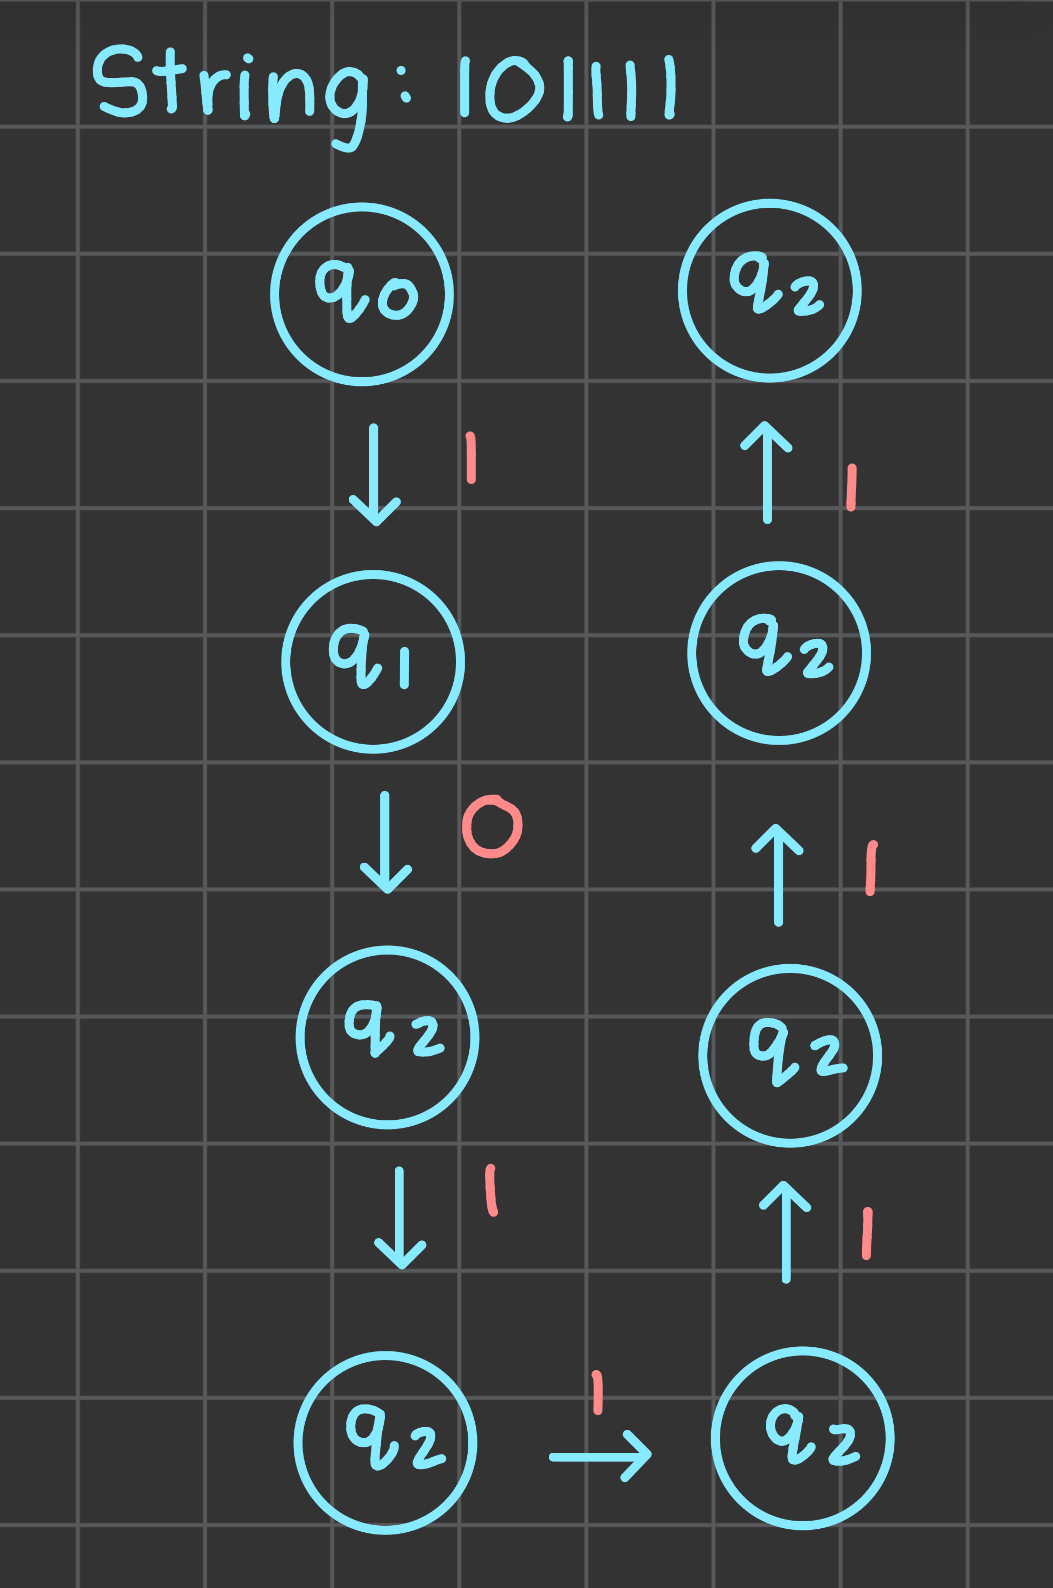
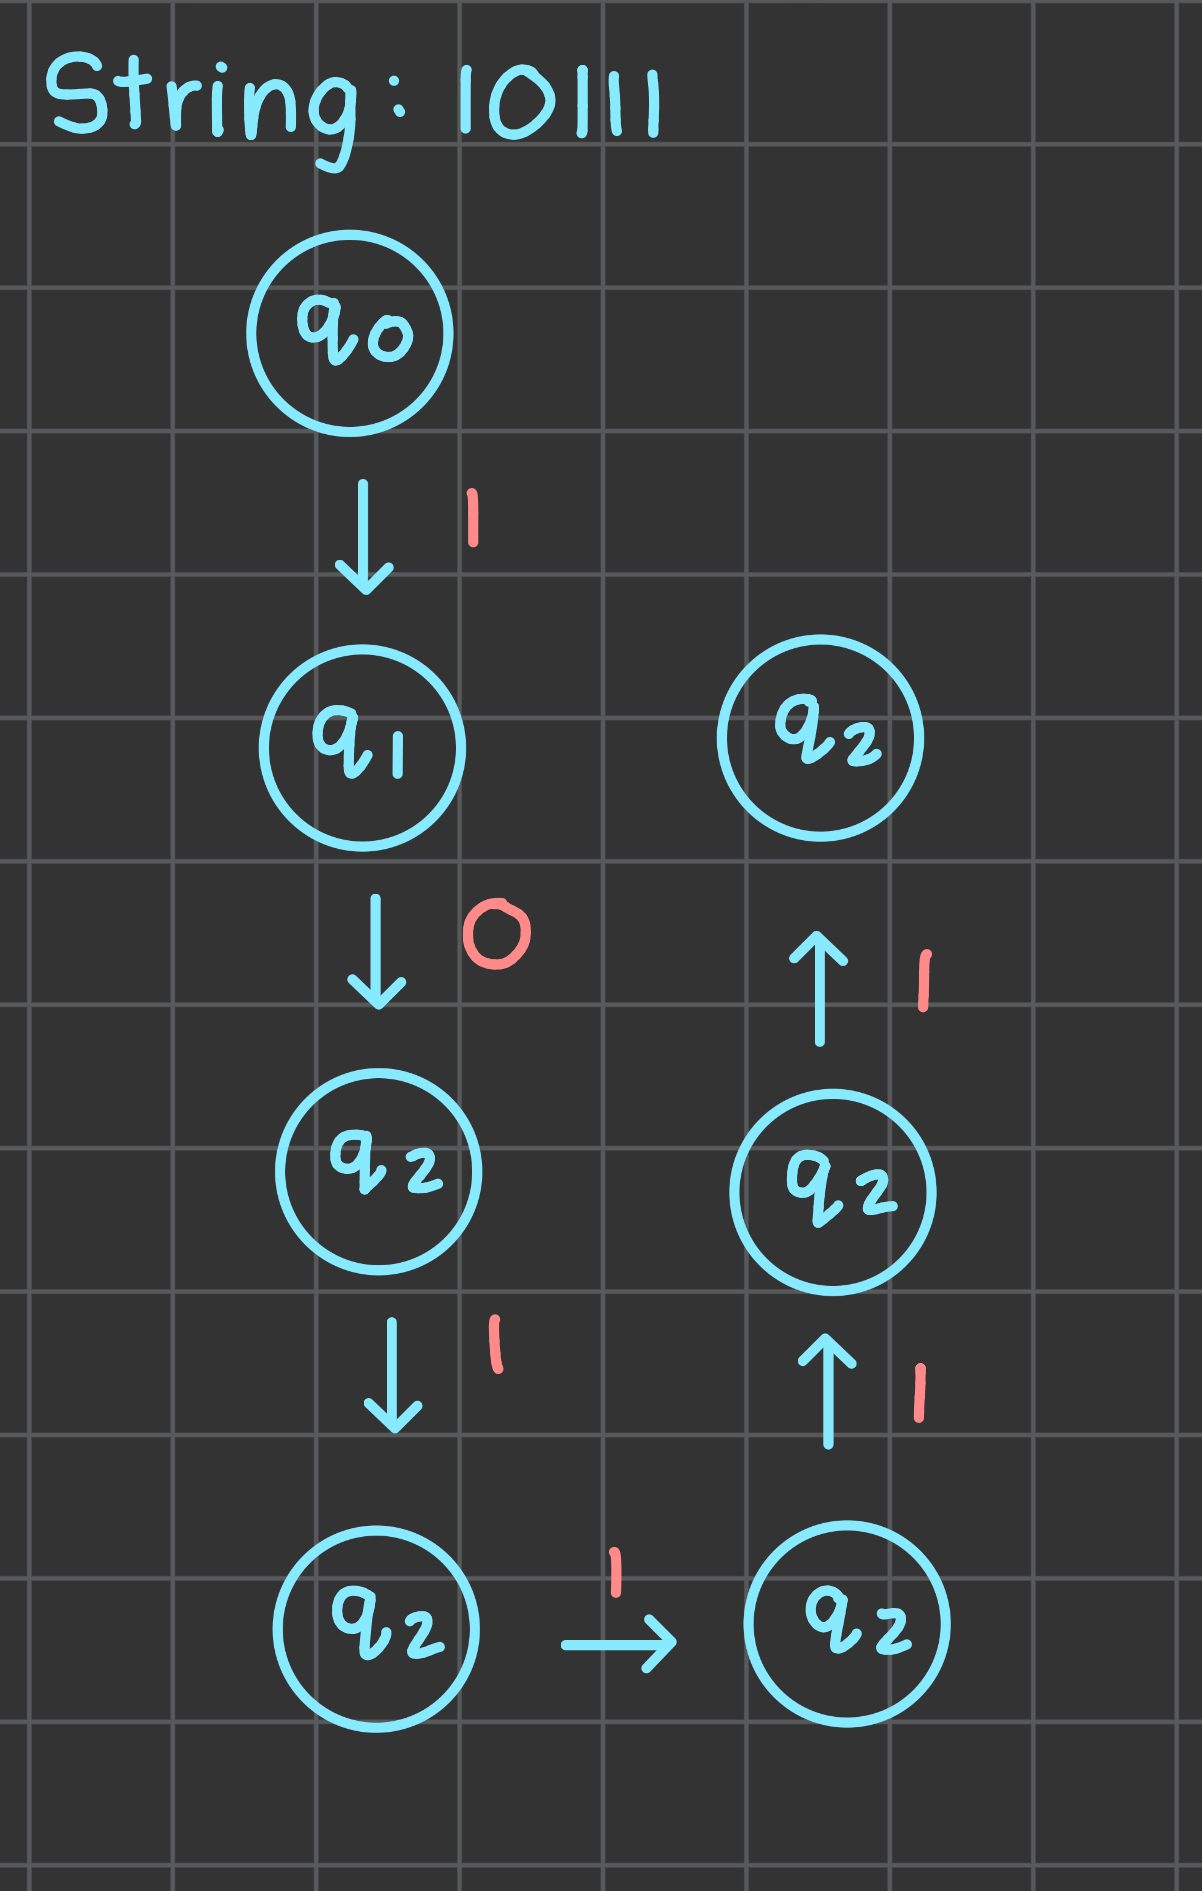
Add files for problem 12

diff --git a/n12r.md b/n12r.md
@@ -1,0 +1,40 @@
+## 1. Picture of the NFA and batch runs
+
+![Picture of my NFA](q12pics/nfa.png)
+
+## 2. Hand drawn icture of the NFA and batch runs
+
+![Picture of my NFA](q12pics/hand-drawn-tree.jpg)
+
+## 3. Challenging String and Computation
+
+The challenging string I chose was `101111`.
+### JFLAP Step-by-Step Screenshots
+
+#### After reading `0`
+
+![JFLAP after reading 0](q12pics/step1.png)
+
+#### After reading `01`
+
+![JFLAP after reading 01](q12pics/step2.png)
+
+#### After reading `010`
+
+![JFLAP after reading 010](q12pics/step3.png)
+
+#### After reading `0101`
+
+![JFLAP after reading 0101](q12pics/step4.png)
+
+#### After reading `01010`
+
+![JFLAP after reading 01010](q12pics/step5.png)
+
+#### After reading `010101`
+
+![JFLAP after reading 010101](q12pics/step6.png)
+
+#### After reading `0101010`
+
+![JFLAP after reading 0101010](q12pics/step7.png)
